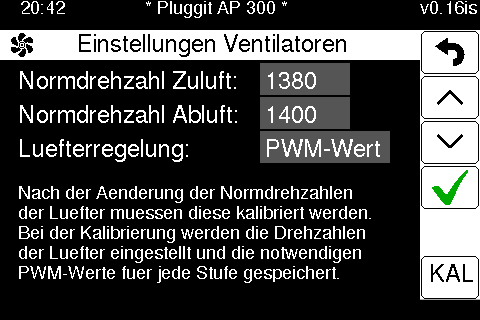
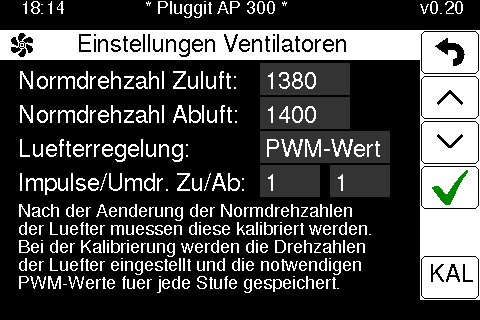
Change fan multiplier to interrupts per rotation

diff --git a/Sourcecode/KWLctl/TFT.cpp b/Sourcecode/KWLctl/TFT.cpp
@@ -1983,8 +1983,8 @@ public:
     auto& config = getControl().getPersistentConfig();
     setpoint_l1_ = config.getSpeedSetpointFan1();
     setpoint_l2_ = config.getSpeedSetpointFan2();
-    multiplier_l1_in_ = multiplier_l1_ = find_mult_index(config.getFan1Multiplier());
-    multiplier_l2_in_ = multiplier_l2_ = find_mult_index(config.getFan2Multiplier());
+    ipr_l1_in_ = ipr_l1_ = find_ipr_index(config.getFan1ImpulsesPerRotation());
+    ipr_l2_in_ = ipr_l2_ = find_ipr_index(config.getFan2ImpulsesPerRotation());
     calculate_speed_mode_ = getControl().getFanControl().getCalculateSpeedMode();
   }
 
@@ -2000,7 +2000,7 @@ protected:
     setupInputFieldColumnWidth(3, 130);
     setupInputFieldRow(3, 1, F("Luefterregelung:"));
     setupInputFieldColumnWidth(4, 60);
-    setupInputFieldRow(4, 2, F("Multiplikator Zu/Ab:"));
+    setupInputFieldRow(4, 2, F("Impulse/Umdr. Zu/Ab:"));
 
     tft_.setFont(&FreeSans9pt7b);
     tft_.setTextColor(colFontColor, colBackColor);
@@ -2037,7 +2037,7 @@ protected:
             calculate_speed_mode_ = FanCalculateSpeedMode::PID;
             break;
           case 4:
-            update_multiplier((getCurrentColumn() == 0) ? multiplier_l1_ : multiplier_l2_, +1);
+            update_ipr((getCurrentColumn() == 0) ? ipr_l1_ : ipr_l2_, -1);
             break;
         }
         updateCurrentInputField();
@@ -2062,7 +2062,7 @@ protected:
             calculate_speed_mode_ = FanCalculateSpeedMode::PROP;
             break;
           case 4:
-            update_multiplier((getCurrentColumn() == 0) ? multiplier_l1_ : multiplier_l2_, -1);
+            update_ipr((getCurrentColumn() == 0) ? ipr_l1_ : ipr_l2_, +1);
             break;
          }
          updateCurrentInputField();
@@ -2073,21 +2073,23 @@ protected:
         resetInput();
         // write to EEPROM and restart
         auto& config = getControl().getPersistentConfig();
-        const bool multiplier_changed =
-            multiplier_l1_in_ != multiplier_l1_ ||
-            multiplier_l2_in_ != multiplier_l2_;
+        const bool ipr_changed =
+            ipr_l1_in_ != ipr_l1_ ||
+            ipr_l2_in_ != ipr_l2_;
         const bool speed_changed =
             config.getSpeedSetpointFan1() != setpoint_l1_ ||
             config.getSpeedSetpointFan2() != setpoint_l2_ ||
-            multiplier_changed;
+            ipr_changed;
         if (speed_changed) {
           config.setSpeedSetpointFan1(setpoint_l1_);
           config.setSpeedSetpointFan2(setpoint_l2_);
-          if (multiplier_changed) {
-            config.setFan1Multiplier(get_mult(multiplier_l1_));
-            config.setFan2Multiplier(get_mult(multiplier_l2_));
-            getControl().getFanControl().getFan1().setMultiplier(get_mult(multiplier_l1_));
-            getControl().getFanControl().getFan2().setMultiplier(get_mult(multiplier_l2_));
+          if (ipr_changed) {
+            config.setFan1ImpulsesPerRotation(get_ipr(ipr_l1_));
+            config.setFan2ImpulsesPerRotation(get_ipr(ipr_l2_));
+            getControl().getFanControl().getFan1().setImpulsesPerRotation(get_ipr(ipr_l1_));
+            getControl().getFanControl().getFan2().setImpulsesPerRotation(get_ipr(ipr_l2_));
+            ipr_l1_in_ = ipr_l1_;
+            ipr_l2_in_ = ipr_l2_;
           }
           getControl().getFanControl().setCalculateSpeedMode(calculate_speed_mode_);
           doPopup<ScreenSetupFan>(
@@ -2127,8 +2129,8 @@ protected:
     return
         config.getSpeedSetpointFan1() != setpoint_l1_ ||
         config.getSpeedSetpointFan2() != setpoint_l2_ ||
-        multiplier_l1_in_ != multiplier_l1_ ||
-        multiplier_l2_in_ != multiplier_l2_ ||
+        ipr_l1_in_ != ipr_l1_ ||
+        ipr_l2_in_ != ipr_l2_ ||
         getControl().getFanControl().getCalculateSpeedMode() != calculate_speed_mode_;
   }
 
@@ -2143,21 +2145,25 @@ private:
       case 3: strcpy_P(buf, fanModeToString(calculate_speed_mode_)); break;
       case 4:
       {
-        auto val = (col == 0) ? multiplier_l1_ : multiplier_l2_;
-        snprintf_P(buf, sizeof(buf), PSTR("%d:%d"), MULTIPLIERS[val].mul, MULTIPLIERS[val].div);
+        auto val = (col == 0) ? ipr_l1_ : ipr_l2_;
+        auto cfg = IPR_CONFIGS[val];
+        if (cfg.div == 1)
+          snprintf_P(buf, sizeof(buf), PSTR("%d"), cfg.mul);
+        else
+          snprintf_P(buf, sizeof(buf), PSTR("%d/%d"), cfg.mul, cfg.div);
         break;
       }
     }
     drawCurrentInputField(buf, false);
   }
 
-  int8_t find_mult_index(float multiplier)
+  int8_t find_ipr_index(float ipr)
   {
     int8_t minindex = 0;
     float mindiff = 1e10;
-    for (int8_t i = 0; i < MULT_COUNT; ++i) {
-      auto m = float(MULTIPLIERS[i].mul) / MULTIPLIERS[i].div;
-      auto diff = abs(m - multiplier);
+    for (int8_t i = 0; i < IPR_CONFIG_COUNT; ++i) {
+      auto m = float(IPR_CONFIGS[i].mul) / IPR_CONFIGS[i].div;
+      auto diff = abs(m - ipr);
       if (diff < mindiff) {
         mindiff = diff;
         minindex = i;
@@ -2166,26 +2172,26 @@ private:
     return minindex;
   }
 
-  float get_mult(int8_t i)
+  float get_ipr(int8_t i)
   {
-    return float(MULTIPLIERS[i].mul) / MULTIPLIERS[i].div;
+    return float(IPR_CONFIGS[i].mul) / IPR_CONFIGS[i].div;
   }
 
-  void update_multiplier(int8_t& multiplier, int8_t direction)
+  void update_ipr(int8_t& ipr, int8_t direction)
   {
-    multiplier += direction;
-    if (multiplier < 0)
-      multiplier = 0;
-    if (multiplier >= MULT_COUNT)
-      multiplier = MULT_COUNT - 1;
+    ipr += direction;
+    if (ipr < 0)
+      ipr = 0;
+    if (ipr >= IPR_CONFIG_COUNT)
+      ipr = IPR_CONFIG_COUNT - 1;
   }
 
-  struct ratio { uint8_t mul; uint8_t div; };
-  static constexpr uint8_t MULT_COUNT = 13;
-  static constexpr ratio MULTIPLIERS[MULT_COUNT] = {
+  struct ratio { uint8_t div; uint8_t mul; };
+  static constexpr uint8_t IPR_CONFIG_COUNT = 11;
+  static constexpr ratio IPR_CONFIGS[IPR_CONFIG_COUNT] = {
     {1, 10}, {1, 9}, {1, 8}, {1, 7}, {1, 6},
-    {1, 5}, {1, 4}, {1, 3}, {1, 2}, {2, 3},
-    {1, 1}, {3, 2}, {2, 1}
+    {1, 5}, {1, 4}, {1, 3}, {1, 2}, {1, 1},
+    {2, 1}
   };
 
   /// Mode to calculate fan speed.
@@ -2195,17 +2201,17 @@ private:
   /// Setpoint for exhaust fan.
   unsigned setpoint_l2_;
   /// Multipier for intake fan.
-  int8_t multiplier_l1_;
+  int8_t ipr_l1_;
   /// Multipier for exhaust fan.
-  int8_t multiplier_l2_;
+  int8_t ipr_l2_;
   /// Multipier for intake fan (at startup).
-  int8_t multiplier_l1_in_;
+  int8_t ipr_l1_in_;
   /// Multipier for exhaust fan (at startup).
-  int8_t multiplier_l2_in_;
+  int8_t ipr_l2_in_;
 };
 
-constexpr uint8_t ScreenSetupFan::MULT_COUNT;
-constexpr ScreenSetupFan::ratio ScreenSetupFan::MULTIPLIERS[MULT_COUNT];
+constexpr uint8_t ScreenSetupFan::IPR_CONFIG_COUNT;
+constexpr ScreenSetupFan::ratio ScreenSetupFan::IPR_CONFIGS[IPR_CONFIG_COUNT];
 
 /// IP configuration setup screen.
 class ScreenSetupIPAddress : public ScreenSetupBase

diff --git a/Sourcecode/KWLctl/FanControl.cpp b/Sourcecode/KWLctl/FanControl.cpp
@@ -56,8 +56,8 @@ static constexpr unsigned long TIMEOUT_PWM_CALIBRATION = 300000000;
 static constexpr double aggKp  = 0.5,  aggKi = 0.1, aggKd  = 0.001;
 static constexpr double consKp = 0.1, consKi = 0.1, consKd = 0.001;
 
-Fan::Fan(uint8_t id, uint8_t powerPin, uint8_t pwmPin, uint8_t tachoPin, float multiplier) :
-  rpm_(static_cast<FanRPM::multiplier_t>(multiplier * FanRPM::RPM_MULTIPLIER_BASE)),
+Fan::Fan(uint8_t id, uint8_t powerPin, uint8_t pwmPin, uint8_t tachoPin, float ipr) :
+  rpm_(static_cast<FanRPM::multiplier_t>(FanRPM::RPM_MULTIPLIER_BASE / ipr)),
   power_(powerPin),
   pwm_pin_(pwmPin),
   tacho_pin_(tachoPin),
@@ -65,10 +65,10 @@ Fan::Fan(uint8_t id, uint8_t powerPin, uint8_t pwmPin, uint8_t tachoPin, float m
   pid_(&current_speed_, &tech_setpoint_, &speed_setpoint_, consKp, consKi, consKd, P_ON_M, DIRECT)
 {}
 
-void Fan::begin(void (*countUp)(), unsigned standardSpeed, float multiplier)
+void Fan::begin(void (*countUp)(), unsigned standardSpeed, float ipr)
 {
   standard_speed_ = standardSpeed;
-  rpm_.multiplier() = static_cast<FanRPM::multiplier_t>(multiplier * FanRPM::RPM_MULTIPLIER_BASE);
+  rpm_.multiplier() = static_cast<FanRPM::multiplier_t>(FanRPM::RPM_MULTIPLIER_BASE / ipr);
 
   pid_.SetOutputLimits(0, 1000);
   pid_.SetMode(AUTOMATIC);
@@ -83,7 +83,7 @@ void Fan::begin(void (*countUp)(), unsigned standardSpeed, float multiplier)
   auto intr = uint8_t(digitalPinToInterrupt(tacho_pin_));
   attachInterrupt(intr, countUp, KWLConfig::TachoSamplingMode);
 
-  Serial.print(F("Fan pins(tacho/PWM), interrupt, std speed, mult:\t"));
+  Serial.print(F("Fan pins(tacho/PWM), interrupt, std speed, ipr:\t"));
   Serial.print(tacho_pin_);
   Serial.print('\t');
   Serial.print(pwm_pin_);
@@ -92,7 +92,7 @@ void Fan::begin(void (*countUp)(), unsigned standardSpeed, float multiplier)
   Serial.print('\t');
   Serial.print(standardSpeed);
   Serial.print('\t');
-  Serial.println(multiplier);
+  Serial.println(ipr);
 
   // Turn on power
   power_.on();
@@ -237,8 +237,8 @@ void Fan::sendMQTTDebug(int id, unsigned long ts, MessageHandler& h)
 
 FanControl::FanControl(KWLPersistentConfig& config, SetSpeedCallback *speedCallback) :
   MessageHandler(F("FanControl")),
-  fan1_(1, KWLConfig::PinFan1Power, KWLConfig::PinFan1PWM, KWLConfig::PinFan1Tacho, KWLConfig::StandardFan1Multiplier),
-  fan2_(2, KWLConfig::PinFan2Power, KWLConfig::PinFan2PWM, KWLConfig::PinFan2Tacho, KWLConfig::StandardFan2Multiplier),
+  fan1_(1, KWLConfig::PinFan1Power, KWLConfig::PinFan1PWM, KWLConfig::PinFan1Tacho, KWLConfig::StandardFan1ImpulsesPerRotation),
+  fan2_(2, KWLConfig::PinFan2Power, KWLConfig::PinFan2PWM, KWLConfig::PinFan2Tacho, KWLConfig::StandardFan2ImpulsesPerRotation),
   speed_callback_(speedCallback),
   ventilation_mode_(KWLConfig::StandardKwlMode),
   persistent_config_(config),
@@ -255,8 +255,8 @@ void FanControl::begin(Print& initTrace)
     fan1_.initPWM(i, persistent_config_.getFanPWMSetpoint(0, i));
     fan2_.initPWM(i, persistent_config_.getFanPWMSetpoint(1, i));
   }
-  fan1_.begin(countUpFan1, persistent_config_.getSpeedSetpointFan1(), persistent_config_.getFan1Multiplier());
-  fan2_.begin(countUpFan2, persistent_config_.getSpeedSetpointFan2(), persistent_config_.getFan2Multiplier());
+  fan1_.begin(countUpFan1, persistent_config_.getSpeedSetpointFan1(), persistent_config_.getFan1ImpulsesPerRotation());
+  fan2_.begin(countUpFan2, persistent_config_.getSpeedSetpointFan2(), persistent_config_.getFan2ImpulsesPerRotation());
 
   timer_task_.runRepeated(FAN_INTERVAL);
 }

diff --git a/Sourcecode/KWLctl/KWLConfig.h b/Sourcecode/KWLctl/KWLConfig.h
@@ -209,10 +209,10 @@ public:
   static constexpr unsigned StandardSpeedSetpointFan1       = 1550;              // sju: 1450
   /// Drehzahl für Standardlüftungsstufe Abluft.
   static constexpr unsigned StandardSpeedSetpointFan2       = 1550;              // sju: 1100
-  /// Multiplier for computing RPM of fan 1, if tacho signal is not sent 1:1 for each rotation.
-  static constexpr float StandardFan1Multiplier             = 1.0;
-  /// Multiplier for computing RPM of fan 2, if tacho signal is not sent 1:1 for each rotation.
-  static constexpr float StandardFan2Multiplier             = 1.0;
+  /// Adjustment for computing RPM of fan 1 (impulses per rotation), if tacho signal is not sent 1:1 for each rotation.
+  static constexpr float StandardFan1ImpulsesPerRotation    = 1.0;
+  /// Adjustment for computing RPM of fan 2 (impulses per rotation), if tacho signal is not sent 1:1 for each rotation.
+  static constexpr float StandardFan2ImpulsesPerRotation    = 1.0;
   /// Max Abweichung der Istdrehzahl zur Solldrehzahl bei Kalibrierung in Prozent
   static constexpr double StandardKwlFanPrecisionPercent    = 1.5;
   /// Nenndrehzahl Papst Lüfter lt Datenblatt 3200 U/min.
@@ -577,9 +577,9 @@ private:
   // Touchscreen configuration
   TouchCalibration touch_;            // 280..290
 
-  // Fan multiplier configuration
-  float Fan1Multiplier_;              // 290
-  float Fan2Multiplier_;              // 294
+  // Fan RPM adjustment configuration
+  float Fan1ImpulsesPerRotation_;              // 290
+  float Fan2ImpulsesPerRotation_;              // 294
   // 298
 
   /// Initialize with defaults, if version doesn't fit.
@@ -595,8 +595,8 @@ public:
   // default getters/setters
   KWL_GETSET(SpeedSetpointFan1)
   KWL_GETSET(SpeedSetpointFan2)
-  KWL_GETSET(Fan1Multiplier)
-  KWL_GETSET(Fan2Multiplier)
+  KWL_GETSET(Fan1ImpulsesPerRotation)
+  KWL_GETSET(Fan2ImpulsesPerRotation)
   KWL_GETSET(BypassTempAbluftMin)
   KWL_GETSET(BypassTempAussenluftMin)
   KWL_GETSET(BypassHystereseMinutes)

diff --git a/Sourcecode/KWLctl/FanControl.h b/Sourcecode/KWLctl/FanControl.h
@@ -64,18 +64,18 @@ public:
    * @param powerPin pin on which to drive power relay.
    * @param pwmPin pin on which to send PWM signal.
    * @param tachoPin pin on which to read tacho pulses.
-   * @param multiplier tacho signal frequency multiplier.
+   * @param ipr tacho signal count per rotation.
    */
-  Fan(uint8_t id, uint8_t powerPin, uint8_t pwmPin, uint8_t tachoPin, float multiplier = 1.0);
+  Fan(uint8_t id, uint8_t powerPin, uint8_t pwmPin, uint8_t tachoPin, float ipr = 1.0);
 
   /*!
    * @brief Start the fan.
    *
    * @param countUp interrupt routine which calls interrupt() for this fan to count RPM.
    * @param standardSpeed standard speed to use initially (in RPM).
-   * @param multiplier tacho signal frequency multiplier.
+   * @param ipr tacho signal count per rotation.
    */
-  void begin(void (*countUp)(), unsigned standardSpeed, float multiplier = 1.0);
+  void begin(void (*countUp)(), unsigned standardSpeed, float ipr = 1.0);
 
   /// Get current speed (RPM) of this fan.
   inline unsigned getSpeed() const { return unsigned(current_speed_); }
@@ -98,9 +98,9 @@ public:
   /// Set PWM signal strength for given ventilation mode at initialization time.
   inline void initPWM(unsigned mode, int pwm) { pwm_setpoint_[mode] = pwm; }
 
-  /// Set RPM multiplier for this fan.
-  void setMultiplier(float multiplier) {
-    rpm_.multiplier() = static_cast<FanRPM::multiplier_t>(multiplier * FanRPM::RPM_MULTIPLIER_BASE);
+  /// Set tacho signal impulses per rotation for this fan.
+  void setImpulsesPerRotation(float ipr) {
+    rpm_.multiplier() = static_cast<FanRPM::multiplier_t>(FanRPM::RPM_MULTIPLIER_BASE / ipr);
   }
 private:
   friend class FanControl;

diff --git a/Sourcecode/KWLctl/KWLConfig.cpp b/Sourcecode/KWLctl/KWLConfig.cpp
@@ -41,8 +41,8 @@ void KWLPersistentConfig::loadDefaults()
 
   KWL_COPY(SpeedSetpointFan1);
   KWL_COPY(SpeedSetpointFan2);
-  KWL_COPY(Fan1Multiplier);
-  KWL_COPY(Fan2Multiplier);
+  KWL_COPY(Fan1ImpulsesPerRotation);
+  KWL_COPY(Fan2ImpulsesPerRotation);
   KWL_COPY(BypassTempAbluftMin);
   KWL_COPY(BypassTempAussenluftMin);
   KWL_COPY(BypassHystereseMinutes);
@@ -142,11 +142,11 @@ void KWLPersistentConfig::migrate()
     touch_.reset();
     update(touch_);
   }
-  if (*reinterpret_cast<long*>(&Fan1Multiplier_) == -1) {
-    Fan1Multiplier_ = KWLConfig::StandardFan1Multiplier;
-    Fan2Multiplier_ = KWLConfig::StandardFan2Multiplier;
-    update(Fan1Multiplier_);
-    update(Fan2Multiplier_);
+  if (*reinterpret_cast<long*>(&Fan1ImpulsesPerRotation_) == -1) {
+    Fan1ImpulsesPerRotation_ = KWLConfig::StandardFan1ImpulsesPerRotation;
+    Fan2ImpulsesPerRotation_ = KWLConfig::StandardFan2ImpulsesPerRotation;
+    update(Fan1ImpulsesPerRotation_);
+    update(Fan2ImpulsesPerRotation_);
   }
 }
 
